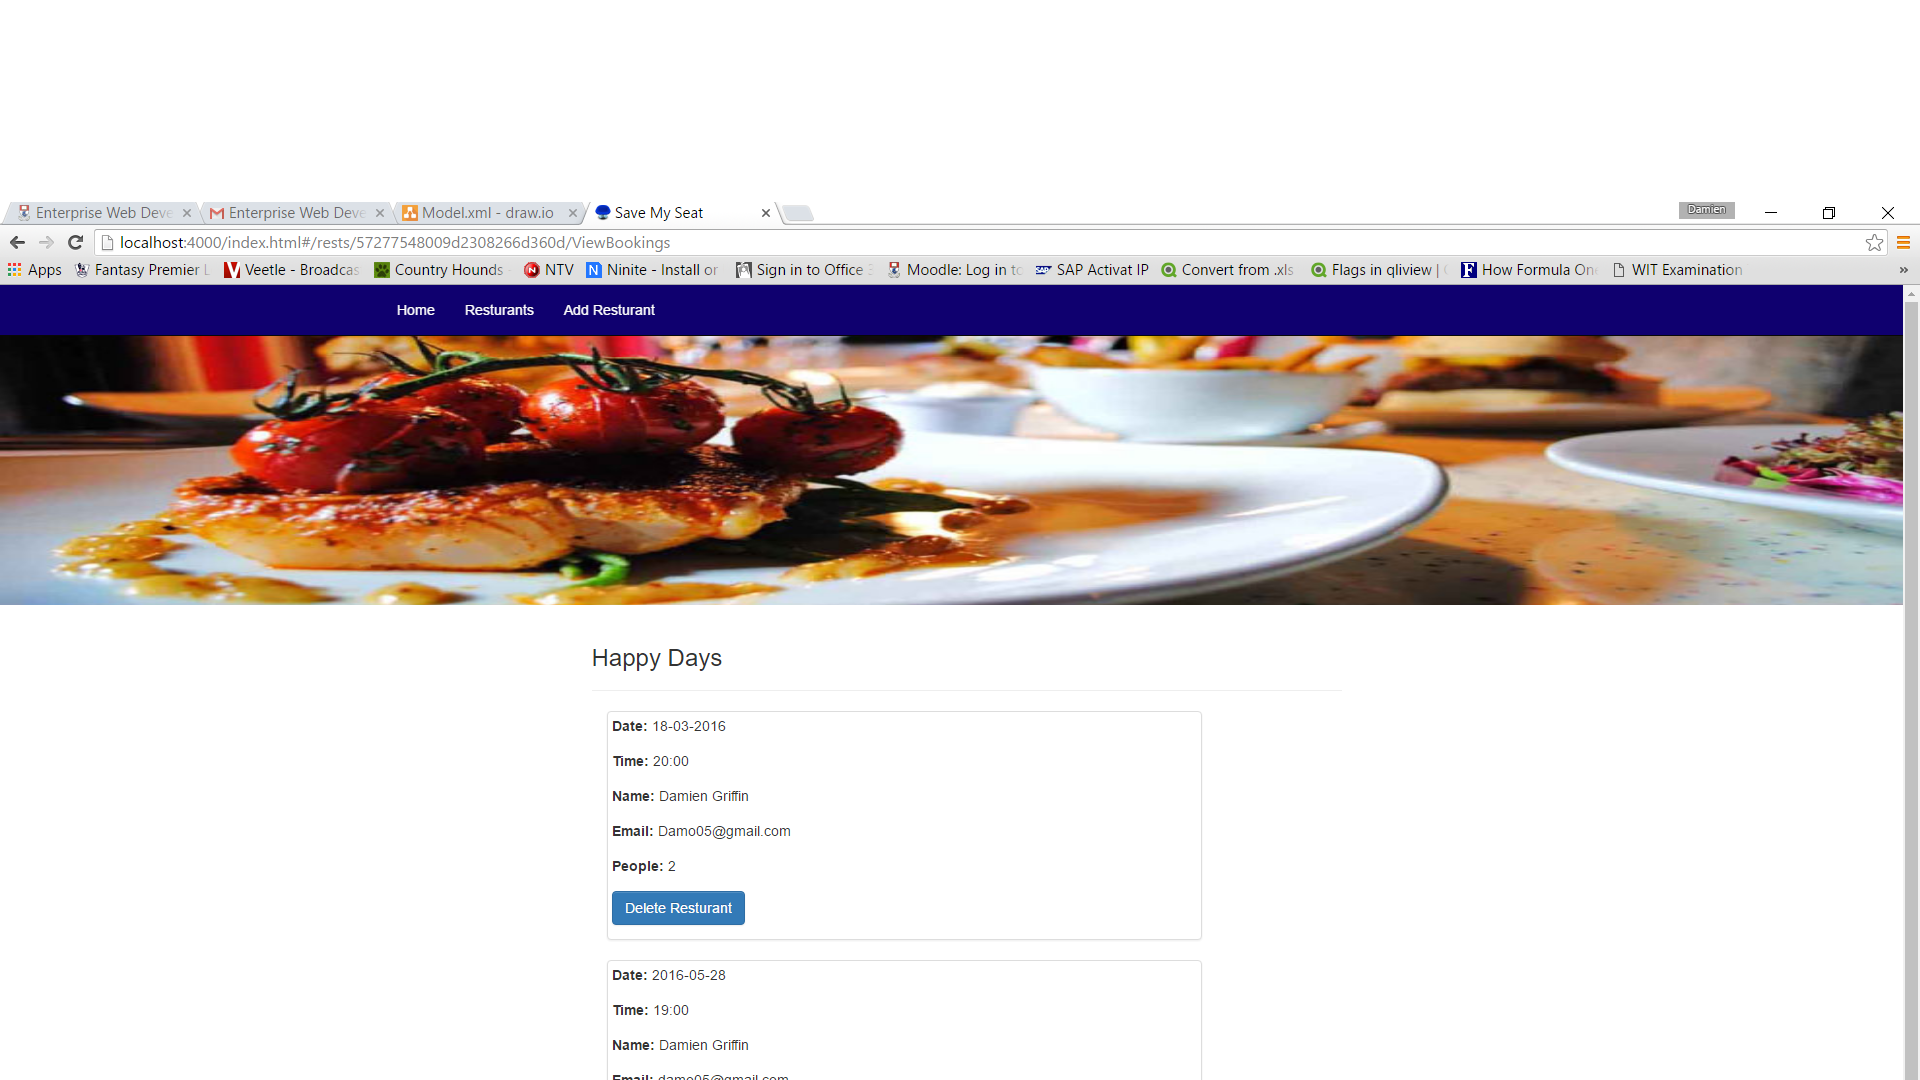
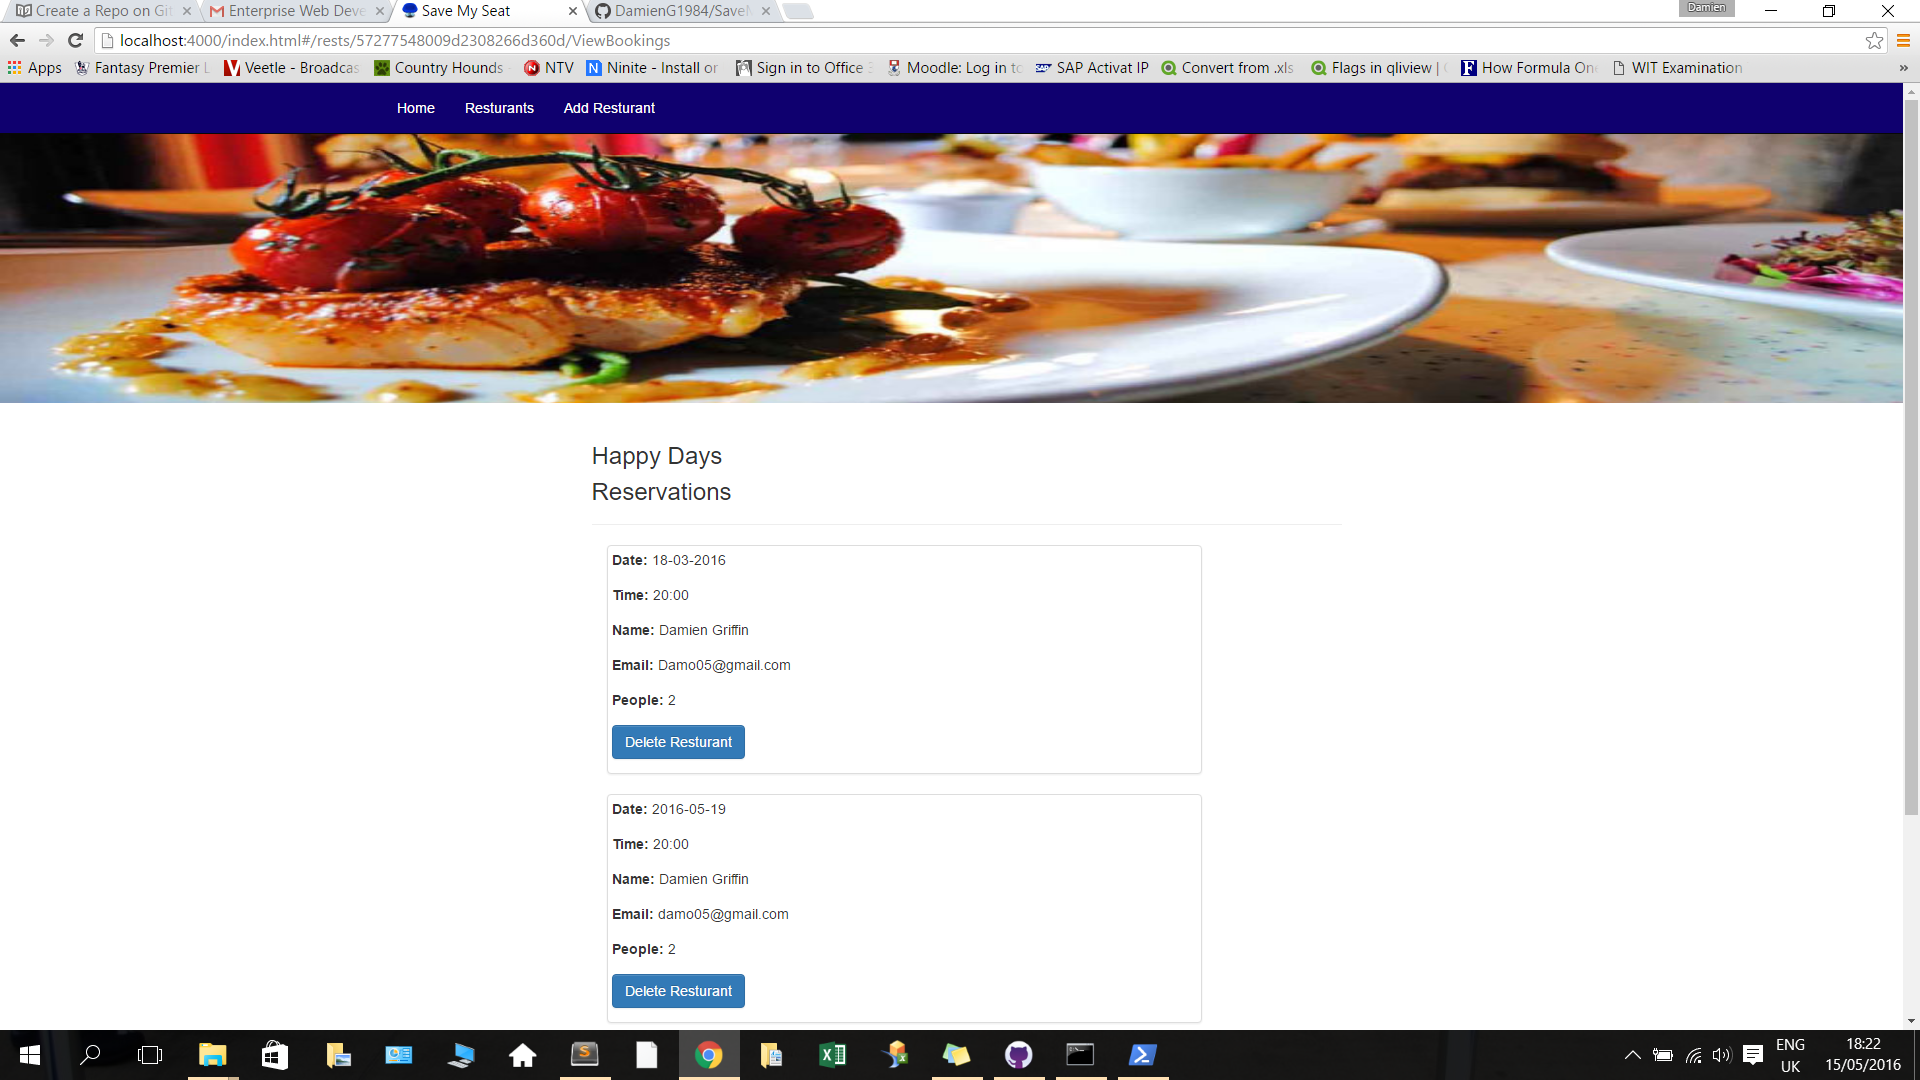
Updating View Bookings html and png file

diff --git a/public/partials/ViewBookings.html b/public/partials/ViewBookings.html
@@ -4,6 +4,8 @@
           <span>
             {{rest.RestName}}
           </span>
+          <p></p>
+          <p> Reservations</p>
         </h3>
       </div>
 
